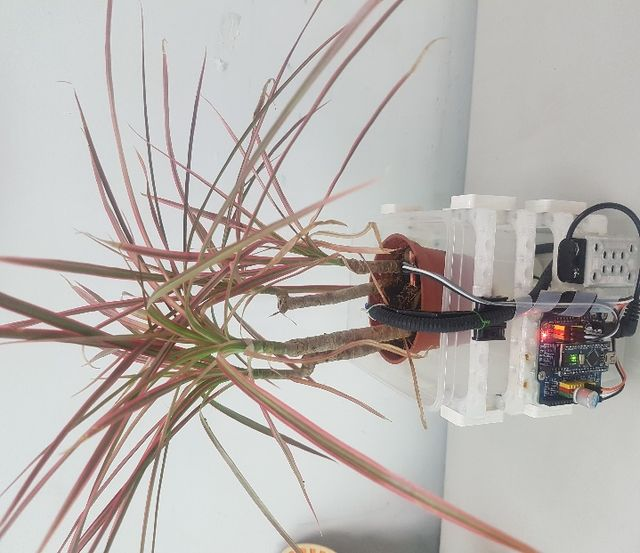
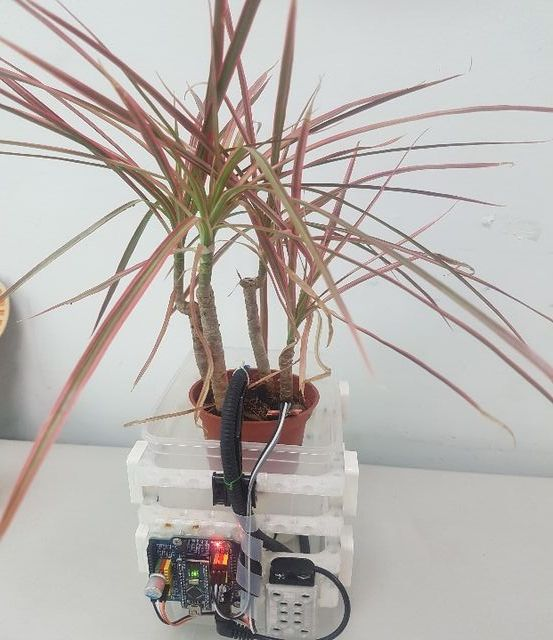
fix(explore): 科別名牌回到正確大樓、智能小車照片轉正、新增客服中鼎文
Building labels, the selection ring and the camera were measured before the
campus group's 90° turn was applied, so department labels floated over the
wrong buildings. Measuring with updateWorldMatrix(true,true) puts them back.
The robot-car photo is rotated upright. 客服中鼎文 rides a kick scooter round
the campus; tapping her shows the coin count, and a redemption pass once all
coins are collected.

Claude-Session: https://claude.ai/code/session_011EXM6cJxxxXFkLZeiVuEbH

diff --git a/explore/index.html b/explore/index.html
@@ -142,6 +142,19 @@ h1,h2,h3{font-family:var(--f-display);font-weight:400;text-wrap:balance;margin:0
 .bl .nm{background:var(--paper);border:2px solid var(--line);border-radius:12px;padding:3px 10px;font-family:var(--f-display);font-size:14px;white-space:nowrap;box-shadow:0 3px 0 rgba(110,70,60,.2);color:var(--ink)}
 .bl.sel .nm,.bl:hover .nm{background:var(--coin);border-color:var(--coin);color:#3d2c00}
 @keyframes bob{50%{transform:translateY(-5px)}}
+.npcTag{position:absolute;left:0;top:0;display:flex;flex-direction:column;align-items:center;border:0;background:none;padding:0;cursor:pointer;pointer-events:auto}
+.npcTag b{font-size:12px;background:#ff4f6d;color:#fff;padding:2px 10px;border-radius:999px;box-shadow:0 3px 0 #d9384f;font-family:var(--f-display);font-weight:400;animation:bob 1.6s ease-in-out infinite}
+.npcTag span{font-size:11px;font-weight:700;color:#3d3040;background:rgba(255,255,255,.9);border-radius:8px;padding:0 6px;margin-top:3px}
+#npc>.panel{width:min(620px,100%);position:relative}
+.npcCard{display:grid;grid-template-columns:minmax(0,220px) 1fr;gap:16px;padding:20px;align-items:center}
+.npcCard img{width:100%;height:auto;border-radius:18px;background:#f2ede6}
+.npcText{display:flex;flex-direction:column;gap:10px;align-items:flex-start;min-width:0}
+.npcText h2{font-size:28px}
+.npcText p{margin:0;font-size:15px;line-height:1.75}
+.npcProof{border:3px dashed var(--coin);border-radius:16px;padding:10px 14px;display:flex;flex-direction:column;gap:2px;background:#fff8dc;color:#5a4316}
+.npcProof span{font-size:11px;font-weight:700;letter-spacing:.1em}
+.npcProof b{font-family:var(--f-display);font-weight:400;font-size:20px}
+@media (max-width:760px){ .npcCard{grid-template-columns:120px 1fr;gap:12px;padding:16px} .npcText h2{font-size:22px} }
 .me{position:absolute;left:0;top:0;font-size:11px;font-weight:700;background:var(--brick);color:#fff;padding:2px 8px;border-radius:999px;pointer-events:none;white-space:nowrap}
 .bub{position:absolute;left:0;top:0;background:#fffdf6;color:#463a37;border-radius:14px;padding:5px 10px;font-size:12px;max-width:190px;line-height:1.4;box-shadow:0 3px 0 rgba(0,0,0,.12);pointer-events:none;animation:pop .3s ease}
 .bub b{display:block;font-size:10.5px;color:#a0857a}
@@ -342,6 +355,7 @@ figcaption{font-size:12px;color:var(--muted);line-height:1.45}
   <div id="game" class="ov" hidden role="dialog" aria-modal="true" aria-labelledby="gTitle"><div class="panel"><div class="ovHead"><span class="tag" id="gTag"></span><h2 id="gTitle"></h2><p id="gSub"></p><button class="x" data-close="game" aria-label="關閉">×</button></div><div class="ovBody" id="gBody"></div></div></div>
   <div id="pass" class="ov" hidden role="dialog" aria-modal="true" aria-labelledby="pTitle"><div class="panel"><div class="ovHead"><div class="passTop"><span id="pAva"></span><div><h2 id="pTitle">草商探索護照</h2><p id="pSub"></p></div></div><button class="x" data-close="pass" aria-label="關閉">×</button></div><div class="ovBody" id="pBody"></div></div></div>
   <div id="intro" class="ov" hidden role="dialog" aria-modal="true" aria-labelledby="inTitle"><div class="panel"><div class="ovHead" id="inHead"><span class="tag" id="inTag"></span><h2 id="inTitle"></h2><p id="inSub"></p><nav class="inNav" id="inNav" aria-label="章節"></nav><button class="x" data-close="intro" aria-label="關閉">×</button></div><div class="ovBody" id="inBody"></div></div></div>
+  <div id="npc" class="ov" hidden role="dialog" aria-modal="true" aria-labelledby="npcTitle"><div class="panel"><div class="npcCard"><img src="media/npc/zhongdingwen.jpg" alt="客服中鼎文的公仔：圓框眼鏡、綁馬尾、穿白色藍袖運動服" width="480" height="720"><div class="npcText"><span class="tag" style="background:#ff4f6d">客服</span><h2 id="npcTitle">中鼎文</h2><p id="npcMsg"></p><div id="npcProof" class="npcProof" hidden></div><p class="note">她騎著滑板車在校園裡繞，看到她就可以點她。小禮物請在學校現場找中鼎文兌換。</p><button class="btn main" data-close="npc">好，繼續探索</button></div></div><button class="x" data-close="npc" aria-label="關閉">×</button></div></div>
   <div id="lb" class="ov" hidden role="dialog" aria-modal="true" aria-label="放大圖片"><figure><img id="lbImg" alt=""><figcaption id="lbCap"></figcaption></figure><button class="x" data-close="lb" aria-label="關閉">×</button></div>
   <div id="info" class="ov" hidden role="dialog" aria-modal="true" aria-labelledby="iTitle"><div class="panel"><div class="ovHead"><h2 id="iTitle">玩法說明</h2><button class="x" data-close="info" aria-label="關閉">×</button></div><div class="ovBody" id="iBody"></div></div></div>
 
@@ -420,7 +434,7 @@ const DEPT_INTRO={
     courses:[['一年級',['數位科技概論','資訊科技概論','程式語言與設計','商業概論','會計學']],
              ['二年級',['多媒體製作與應用','數位科技應用','行動裝置應用設計','專題製作','網頁設計','軟體應用','邏輯設計']],
              ['三年級',['計算機應用','資料庫應用','電子商務','數位影像設計','商業溝通']]],
-    projects:{ topics:['手機 APP 程式','創客實作','AI 智能運用'], photos:[['proj-plant.jpg','智能植栽',640,573],['proj-car.jpg','智能小車製作',640,553]] },
+    projects:{ topics:['手機 APP 程式','創客實作','AI 智能運用'], photos:[['proj-plant.jpg','智能植栽',640,573],['proj-car.jpg','智能小車製作',553,640]] },
     certs:[['一年級',['勞動部 丙級會計事務－人工記帳']],
            ['二年級',['PVQC 資訊類專業英文詞彙','勞動部 丙級電腦軟體應用','MOCC APP 手機程式','GTC AI 人工智慧應用']],
            ['三年級',['電腦軟體應用乙級','電子商務','資訊科技']]],
@@ -731,7 +745,7 @@ function courtyard(key,quests){
   for(const [x,z] of [[-2.8,-1.5],[2.8,1.5],[0,-4],[-3,3.5]]) tree(root,x,z,1.15,C.tree2);
   for(const s of (c.pav||[])) pavilion(root,s*(c.W/2+1.4),c.D/2-.6,.9);
   const map={left:gl,right:gr,back:gb,gate:gg};
-  root.updateMatrixWorld(true);
+  root.updateWorldMatrix(true,true);
   for(const [slot,id] of Object.entries(quests)) reg(id,map[slot],c.face);
   PARTS[key]={root,gate:gg};
 }
@@ -740,7 +754,7 @@ function courtyard(key,quests){
    BUILDINGS
    ===================================================================== */
 const B={}; const pickables=[];
-function reg(id,g,face=1,dirW=null){ g.updateMatrixWorld(true); const bx=new THREE.Box3().setFromObject(g); const c=bx.getCenter(new THREE.Vector3()), sz=bx.getSize(new THREE.Vector3());
+function reg(id,g,face=1,dirW=null){ g.updateWorldMatrix(true,true); const bx=new THREE.Box3().setFromObject(g); const c=bx.getCenter(new THREE.Vector3()), sz=bx.getSize(new THREE.Vector3());
   B[id]={g,c,top:bx.max.y+.5,r:Math.max(4,Math.min(10,Math.hypot(sz.x,sz.z)*.45)),face,dir:dirW||(face===0?new THREE.Vector3(0,0,1):new THREE.Vector3(face>0?-1:1,0,0)),base:g.scale.clone()};
   g.traverse(o=>{ if(o.isMesh){ o.userData.q=id; pickables.push(o);} }); }
 function nameplate(p,text,x,y,z,ry,col){ return plane(p,Math.min(4.2,text.length*.5+.8),.55,signTex(text,col,'#ffffff',Math.max(320,text.length*80+60),120,66),x,y,z,ry); }
@@ -1092,6 +1106,11 @@ function makeStudent(o){
     const back=add(geo('hairBack',()=>new THREE.CapsuleGeometry(.2,.32,4,10)),o.hair,head,0,-.24,-.17); back.scale.set(1.65,1,.7);
     for(const s of [-1,1]){ const l=add(geo('hairSide',()=>new THREE.CapsuleGeometry(.075,.34,3,8)),o.hair,head,s*.31,-.22,.04); l.rotation.z=s*.08; }
     const bang=small('bang',()=>new THREE.SphereGeometry(.3,14,8),o.hair,head,0,.2,.17); bang.scale.set(1.15,.42,.72);
+  } else if(o.style==='pony'){
+    const tail=add(geo('ponyTail',()=>new THREE.CapsuleGeometry(.11,.3,4,10)),o.hair,head,.12,-.22,-.3); tail.rotation.set(.5,0,-.25);
+    add(geo('ponyTie',()=>new THREE.SphereGeometry(.07,8,6)),'#2f63d6',head,.06,0,-.33,false);
+    const bang=small('bang',()=>new THREE.SphereGeometry(.3,14,8),o.hair,head,0,.2,.17); bang.scale.set(1.15,.42,.72);
+    for(const s2 of [-1,1]){ const l=add(geo('ponySide',()=>new THREE.CapsuleGeometry(.06,.16,3,8)),o.hair,head,s2*.32,-.08,.06); }
   } else if(o.style==='spiky'){
     for(let i=0;i<7;i++){ const a=i/7*Math.PI*2; const sp=small('spike',()=>new THREE.ConeGeometry(.08,.22,6),o.hair,head,Math.cos(a)*.2,.33,Math.sin(a)*.2-.03); sp.rotation.set(Math.sin(a)*.6,0,-Math.cos(a)*.6); }
     const f=small('fringe',()=>new THREE.SphereGeometry(.28,12,8),o.hair,head,0,.2,.2); f.scale.set(1.15,.4,.6);
@@ -1148,6 +1167,45 @@ function updateWalkers(t,dt){
   if(player){ if(player.path.length){ const tgt=player.path[0]; if(stepWalker(player.mesh,tgt,player.speed*dt,t,0,dt)){ player.path.shift(); } } else { const u=player.mesh.userData; u.legs[0].rotation.x=u.legs[1].rotation.x=0; u.arms[0].rotation.set(0,0,0); u.arms[1].rotation.set(0,0,2.5+Math.sin(t*6)*.25); player.mesh.position.y=0; } }
 }
 
+/* ---------- NPC 中鼎文（客服）：騎滑板車繞校園，集滿金幣可以找她換小禮物 ---------- */
+const NPC_ROUTE=['gateS','e1','s6','e0','n6','n5','nF','n3','nE','nL','c0','sL','sC','s3','s4','s5','s6','e1'];
+let npc=null;
+function makeNPC(){
+  const g=new THREE.Group(); scene.add(g);
+  const sc=new THREE.Group(); g.add(sc); // kick scooter
+  box(sc,.32,.06,1.15,'#ff4f6d',0,.12,0); box(sc,.3,.02,1.0,'#2b2b2b',0,.18,0);
+  const wh=[]; for(const z of [-.5,.5]){ const w=add(geo('scWheel',()=>new THREE.CylinderGeometry(.11,.11,.08,14)),'#2b2b2b',sc,0,.11,z); w.rotation.z=Math.PI/2; wh.push(w); }
+  const stem=add(geo('scStem',()=>new THREE.CylinderGeometry(.035,.035,1.15,8)),'#cfd5da',sc,0,.68,.5); stem.rotation.x=-.12;
+  const bar=add(geo('scBar',()=>new THREE.CylinderGeometry(.03,.03,.6,8)),'#cfd5da',sc,0,1.24,.43); bar.rotation.z=Math.PI/2;
+  for(const x of [-.3,.3]) add(geo('scGrip',()=>new THREE.CylinderGeometry(.045,.045,.12,8)),'#ff4f6d',sc,x,1.24,.43).rotation.z=Math.PI/2;
+  const fig=makeStudent({style:'pony',hair:'#1b1714',skin:'#f6cfa6',glasses:'round',gcol:'#141414',bottom:'shorts',stripe:true,socks:true,shoe:'white'});
+  fig.position.set(0,.15,-.08); fig.scale.setScalar(.95); g.add(fig);
+  fig.children[0].visible=false; // no figurine base while riding
+  const u=fig.userData; u.arms.forEach(a=>a.rotation.set(-1.15,0,0)); u.legs[0].rotation.x=-.12;
+  g.traverse(o=>{ if(o.isMesh){ o.userData.npc=true; pickables.push(o); } });
+  const pts=NPC_ROUTE.map(k=>NV(k));
+  npc={g,fig,wh,pts,i:0,pos:pts[0].clone(),wait:0,speed:3.6};
+  document.getElementById('npc').addEventListener('click',e=>{ if(e.target.closest('[data-close="npc"]')||e.target.id==='npc') document.getElementById('npc').hidden=true; });
+  g.position.copy(npc.pos);
+}
+function updateNPC(t,dt){
+  if(!npc) return; const n=npc;
+  if(n.wait>0){ n.wait-=dt; n.fig.userData.arms[1].rotation.set(0,0,2.5+Math.sin(t*9)*.3); return; }
+  n.fig.userData.arms[1].rotation.set(-1.15,0,0);
+  const tgt=n.pts[(n.i+1)%n.pts.length]; const d=tgt.clone().sub(n.g.position); d.y=0; const L=d.length(), st=n.speed*dt;
+  if(L<st){ n.g.position.copy(tgt); n.i=(n.i+1)%n.pts.length; if(Math.random()<.22) n.wait=rnd(1.5,3); }
+  else { n.g.position.addScaledVector(d,st/L); const yaw=Math.atan2(d.x,d.z); n.g.rotation.y+=(((yaw-n.g.rotation.y+Math.PI*3)%(Math.PI*2))-Math.PI)*Math.min(1,dt*6); n.wh.forEach(w=>w.rotation.x+=st/.11); n.g.position.y=Math.abs(Math.sin(t*14))*.02; }
+}
+function openNPC(){
+  const all=ST.done.length>=Q.length, n=ST.done.length;
+  $('#npcMsg').innerHTML= all
+    ? `<b>你已經集滿 ${Q.length} 枚金幣！</b><br>把這個畫面給中鼎文看，就可以換小禮物囉。`
+    : `<b>加油，集滿金幣可以找中鼎文換小禮物！</b><br>你現在有 ${n} 枚，還差 <b>${Q.length-n}</b> 枚。`;
+  $('#npcProof').hidden=!all;
+  if(all) $('#npcProof').innerHTML=`<span>兌換憑證</span><b>${esc(ST.name||'草商新生')}</b><small>金幣 ${n} / ${Q.length} · ${new Date().toLocaleString('zh-TW',{timeZone:'Asia/Taipei',hour12:false})}</small>`;
+  $('#npc').hidden=false;
+}
+
 /* =====================================================================
    FX: coin pop, confetti, building bounce, selection ring
    ===================================================================== */
@@ -1164,11 +1222,12 @@ const selRing=new THREE.Mesh(new THREE.RingGeometry(1,1.18,40).rotateX(-Math.PI/
 /* =====================================================================
    LABELS, PICKING, CAMERA
    ===================================================================== */
-const labelEls={}; let meEl=null;
+const labelEls={}; let meEl=null, npcEl=null;
 function buildLabels(){
   for(const q of Q){ if(!B[q.id]) continue; const b=document.createElement('button'); b.className='bl'; b.type='button'; b.setAttribute('aria-label',q.name+'，點選探索');
     b.innerHTML=`<span class="mk">!</span><span class="nm">${q.bld?`<small>${q.bld}</small>`:''}${q.name}</span>`; b.addEventListener('click',()=>select(q.id,true)); labelsEl.appendChild(b); labelEls[q.id]=b; }
   meEl=document.createElement('div'); meEl.className='me'; meEl.style.visibility='hidden'; labelsEl.appendChild(meEl);
+  npcEl=document.createElement('button'); npcEl.type='button'; npcEl.className='npcTag'; npcEl.innerHTML='<b>客服</b><span>中鼎文</span>'; npcEl.setAttribute('aria-label','客服 中鼎文：集滿金幣可以換小禮物'); npcEl.addEventListener('click',openNPC); labelsEl.appendChild(npcEl);
   for(const t of TAGS){ if(!t.world){ const [x,z]=T2W(t.x,t.z); t.x=x; t.z=z; t.world=true; } const el=document.createElement('div'); el.className='bt'+(t.gate?' gate':'')+(t.land?' land':'')+(t.road?' road':''); el.textContent=t.name; labelsEl.appendChild(el); t.el=el; }
 }
 function refreshLabels(){ for(const id in labelEls){ const d=isDone(id); labelEls[id].classList.toggle('done',d); labelEls[id].querySelector('.mk').textContent=d?'✓':'!'; } if(meEl) meEl.textContent=ST.name?ST.name:'你'; }
@@ -1178,6 +1237,7 @@ function updateLabels(){
   for(const id in labelEls){ const el=labelEls[id], b=B[id]; const [x,y,z]=project(b.c.x,b.top+.4,b.c.z); if(z>1){ el.style.visibility='hidden'; continue; } el.style.visibility='visible'; el.style.transform=`translate(${x}px,${y}px) translate(-50%,-100%)`; el.style.zIndex=String(1000-Math.round(z*900)); }
   const camD=controls?camera.position.distanceTo(controls.target):100;
   for(const t of TAGS){ const [x,y,z]=project(t.x,t.y,t.z); const show=z<1&&(t.gate||t.land||t.road||camD<90); t.el.style.visibility=show?'visible':'hidden'; if(show) t.el.style.transform=`translate(${x}px,${y}px) translate(-50%,-100%)`; }
+  if(npc&&npcEl){ const p=npc.g.position; const [x,y,z]=project(p.x,p.y+2.35,p.z); npcEl.style.visibility=z>1?'hidden':'visible'; npcEl.style.transform=`translate(${x}px,${y}px) translate(-50%,-100%)`; npcEl.style.zIndex=String(1100-Math.round(z*900)); }
   if(player&&meEl){ const p=player.mesh.position; const [x,y,z]=project(p.x,p.y+2.1,p.z); meEl.style.visibility=z>1?'hidden':'visible'; meEl.style.transform=`translate(${x}px,${y}px) translate(-50%,-100%)`; }
   for(const s of students){ if(!s.bubble) continue; const p=s.mesh.position; const [x,y,z]=project(p.x,p.y+1.5,p.z); s.bubble.style.visibility=z>1?'hidden':'visible'; s.bubble.style.transform=`translate(${x}px,${y}px) translate(-50%,-100%)`; }
 }
@@ -1193,9 +1253,9 @@ const ray=new THREE.Raycaster(), ndc=new THREE.Vector2(); let downAt=null;
 function rayAt(cx,cy,objs){ const r=canvas.getBoundingClientRect(); ndc.set(((cx-r.left)/r.width)*2-1,-((cy-r.top)/r.height)*2+1); ray.setFromCamera(ndc,camera); return ray.intersectObjects(objs,false)[0]; }
 canvas.addEventListener('pointerdown',e=>{ downAt=[e.clientX,e.clientY]; });
 canvas.addEventListener('pointerup',e=>{ if(!downAt||!started) return; const moved=Math.hypot(e.clientX-downAt[0],e.clientY-downAt[1]); downAt=null; if(moved>6) return;
-  const hit=rayAt(e.clientX,e.clientY,pickables); if(hit){ select(hit.object.userData.q,true); return; }
+  const hit=rayAt(e.clientX,e.clientY,pickables); if(hit){ if(hit.object.userData.npc){ openNPC(); return; } select(hit.object.userData.q,true); return; }
   const gh=rayAt(e.clientX,e.clientY,WGROUND?[ground,WGROUND]:[ground]); if(gh&&player){ walkPlayerTo(nearestNode(gh.point.x,gh.point.z)); } });
-let hq=false, hoverId=null; canvas.addEventListener('pointermove',e=>{ if(e.pointerType!=='mouse'||hq) return; hq=true; requestAnimationFrame(()=>{ hq=false; const h=rayAt(e.clientX,e.clientY,pickables); const id=h?h.object.userData.q:null; if(id!==hoverId){ if(hoverId&&labelEls[hoverId]) labelEls[hoverId].classList.remove('hov'); hoverId=id; canvas.style.cursor=id?'pointer':'grab'; } }); });
+let hq=false, hoverId=null; canvas.addEventListener('pointermove',e=>{ if(e.pointerType!=='mouse'||hq) return; hq=true; requestAnimationFrame(()=>{ hq=false; const h=rayAt(e.clientX,e.clientY,pickables); const id=h?(h.object.userData.npc?'npc':h.object.userData.q):null; if(id!==hoverId){ if(hoverId&&labelEls[hoverId]) labelEls[hoverId].classList.remove('hov'); hoverId=id; canvas.style.cursor=id?'pointer':'grab'; } }); });
 
 /* =====================================================================
    UI
@@ -1323,7 +1383,7 @@ function winGame(id){
   const q=QI[id]; const fresh=!isDone(id);
   const line=q.kind==='dept'?'你認識了這個科別！':'你發現了校園生活！';
   $('#gBody').innerHTML=`<div class="win"><div class="bigcoin">${q.short}</div><h3>${line}</h3><p>${fresh?`<b>${esc(q.name)}</b> 的印章蓋上護照了，獲得金幣一枚。`:'這枚金幣之前已經收過囉，再挑戰其他建築吧！'}</p><div style="display:flex;gap:8px;flex-wrap:wrap;justify-content:center"><button class="btn main" id="collect">${fresh?'收下金幣':'好的'}</button></div></div>`;
-  $('#collect').onclick=()=>{ $('#game').hidden=true; if(fresh){ ST.done.push(id); save(); flyCoin(); coinPop(id); refreshLabels(); renderTasks(); renderCard(); const dn=DEPTS.filter(d=>isDone(d.id)).length; if(q.kind==='dept'&&dn===DEPTS.length) setTimeout(()=>{ toast(`${DEPTS.length} 個科別都認識了！打開護照領取探索證書`); openPass(); },1600); } };
+  $('#collect').onclick=()=>{ $('#game').hidden=true; if(fresh){ ST.done.push(id); save(); if(ST.done.length===Q.length) setTimeout(()=>{ toast('金幣集滿了！去找騎滑板車的客服中鼎文換小禮物'); },2600); flyCoin(); coinPop(id); refreshLabels(); renderTasks(); renderCard(); const dn=DEPTS.filter(d=>isDone(d.id)).length; if(q.kind==='dept'&&dn===DEPTS.length) setTimeout(()=>{ toast(`${DEPTS.length} 個科別都認識了！打開護照領取探索證書`); openPass(); },1600); } };
 }
 function openIntro(id){
   const q=QI[id], I=DEPT_INTRO[id]; if(!I) return;
@@ -1404,13 +1464,13 @@ $('#coinBtn').addEventListener('click',openPass); $('#passBtn').addEventListener
 $('#homeBtn').addEventListener('click',()=>{ select(null); home(); });
 $('#taskBtn').addEventListener('click',()=>{ $('#tasks').classList.toggle('open'); if($('#tasks').classList.contains('open')) select(null); });
 $('#infoBtn').addEventListener('click',()=>{
-  $('#iBody').innerHTML=`<p><b>怎麼玩</b></p><ul><li>直接點建築（或上面的名牌）就能看科別介紹，不用走到門口；你的角色會自己走過去。</li><li>每棟建築都有一個小任務，完成後會顯示「你認識了這個科別！」並得到一枚金幣。</li><li>在科別卡片按「♡ 我有興趣」，十個科別都認識後，護照會發給你一張寫著你方向的「探索證書」。</li><li>拖曳可以轉動視角，捏合或滾輪可以縮放，點地面可以讓角色走過去。</li></ul>
+  $('#iBody').innerHTML=`<p><b>怎麼玩</b></p><ul><li>直接點建築（或上面的名牌）就能看科別介紹，不用走到門口；你的角色會自己走過去。</li><li>每棟建築都有一個小任務，完成後會顯示「你認識了這個科別！」並得到一枚金幣。</li><li>在科別卡片按「♡ 我有興趣」，十個科別都認識後，護照會發給你一張寫著你方向的「探索證書」。</li><li>看到頭上寫「客服」、騎滑板車的中鼎文就點她。集滿 13 枚金幣，可以找她換小禮物。</li><li>拖曳可以轉動視角，捏合或滾輪可以縮放，點地面可以讓角色走過去。</li></ul>
   <p><b>校園廣播</b></p><p>底部的廣播與同學頭上的對話框來自課程 Discord（由 TA Bot 推送到 <code>api/feed</code>）。目前狀態：${feedMode==='live'?'即時':'示範內容'}。</p>
   <p><b>資料來源</b></p><ul>${SOURCES.map(s=>`<li><a href="${s[1]}" target="_blank" rel="noopener">${esc(s[0])}</a></li>`).join('')}</ul>
   <p class="note">校園配置依「115 學年度全校平面圖」；北邊是中投快速道路，西邊是民房，正校門正對面是萊爾富、右手邊是南台灣土魠魚羹。誠工樓、誠教樓、藝升樓、誠學樓依實景照片做成三合院造型；比例為遊戲用的示意。校外商店以一般店面呈現。進度只存在這台裝置的瀏覽器裡。</p>`;
   $('#info').hidden=false; });
 $('#info').addEventListener('click',e=>{ if(e.target.closest('[data-close="info"]')||e.target.id==='info') $('#info').hidden=true; });
-addEventListener('keydown',e=>{ if(e.key!=='Escape') return; for(const id of ['lb','intro','game','pass','info']){ if(!$('#'+id).hidden){ if(id==='game') gameStop&&gameStop(); $('#'+id).hidden=true; return; } } select(null); });
+addEventListener('keydown',e=>{ if(e.key!=='Escape') return; for(const id of ['lb','npc','intro','game','pass','info']){ if(!$('#'+id).hidden){ if(id==='game') gameStop&&gameStop(); $('#'+id).hidden=true; return; } } select(null); });
 function toast(text){ const t=$('#toast'); t.innerHTML='<span class="coin"></span><span></span>'; t.lastChild.textContent=text; t.hidden=false; clearTimeout(toast.t); toast.t=setTimeout(()=>t.hidden=true,3200); }
 
 /* =====================================================================
@@ -1449,7 +1509,7 @@ function frame(){
   const dt=Math.min(.05,clock.getDelta()); T+=dt*(reduceMotion?.4:1);
   for(const f of anim) f(T,dt);
   for(let i=fx.length-1;i>=0;i--) if(!fx[i](dt)) fx.splice(i,1);
-  updateWalkers(T,dt);
+  updateWalkers(T,dt); updateNPC(T,dt);
   if(selRing.visible) selRing.material.opacity=.55+.4*Math.sin(T*4);
   if(fly){ fly.k+=dt/fly.dur; const k=Math.min(1,fly.k); const e=k<.5?4*k*k*k:1-Math.pow(-2*k+2,3)/2; camera.position.lerpVectors(fly.p0,fly.p1,e); controls.target.lerpVectors(fly.t0,fly.t1,e); if(k>=1) fly=null; }
   controls&&controls.update();
@@ -1457,7 +1517,7 @@ function frame(){
 }
 try{ await Promise.race([document.fonts.load('48px Huninn'),new Promise(r=>setTimeout(r,1500))]); }catch(e){}
 buildCampus(); buildLabels(); refreshLabels(); renderTasks(); renderAvatars();
-for(const h of HOMES) addStudent(h); for(let i=0;i<4;i++) addStudent(pick(Object.keys(N).filter(k=>!(k in WNODE))));
+makeNPC(); for(const h of HOMES) addStudent(h); for(let i=0;i<4;i++) addStudent(pick(Object.keys(N).filter(k=>!(k in WNODE))));
 startDemo(); poll();
 if(renderer){ new ResizeObserver(resize).observe(canvas); resize(); if(canvas.clientWidth<760) camera.position.set(-10,190,205); if(controls){ controls.autoRotate=!reduceMotion; controls.autoRotateSpeed=.5; } requestAnimationFrame(frame); }
 </script>

diff --git a/explore/README.md b/explore/README.md
@@ -7,6 +7,7 @@
 - 校園配置依「115 學年度全校平面圖」（約 10 像素 = 1 單位，寫在 `PLAN`）：上排誠工樓、誠教樓、誠治樓與宿舍，中軸為中央大道、誠愛樓（圖書館）、中央草坪與水池，下排藝升樓、誠學樓，西側潔采樓、球場與運動場；平面圖上正校門在右下角，轉成實際方位後在西南角。
 - 誠工樓、誠教樓、藝升樓、誠學樓做成三合院：兩翼山牆屋頂與白色封簷、洗石子框架配粉紅磚、綠欄杆迴廊、菱形窗、後棟，正面是兩層門廊與青綠色樓名牌。
 - 資料處理科卡片與「看資處科完整介紹」內容取自科內簡報（2026-3-10）：三年專業課程、專題實作、各年級技能檢定、科設備、校外參訪、10 項競賽獲獎海報、升學 98%／國立科大 50% 與就業方向。照片壓縮後放在 `media/data/`，資料寫在 `DEPT_INTRO`；其他科有簡報時照同格式加入即可。
+- NPC 客服中鼎文（`media/npc/zhongdingwen.jpg`）騎滑板車沿 `NPC_ROUTE` 繞校園，頭上標「客服」。點她會跳出公告與目前金幣數；集滿 13 枚時顯示兌換憑證（名字、金幣、時間），小禮物在學校現場兌換，網站不做線上發獎。
 - 13 個探索點（9 個科別＋誠愛樓、921 重建紀念亭、正校門正對面的萊爾富、校門右手邊的南台灣土魠魚羹），各有一個一分鐘內完成的小任務，完成顯示「你認識了這個科別！」並得到一枚金幣。
 - 正校門：伸縮門、警衛室在門內右側，「國立草屯商工」校名牆與賀榜在門口右側；進門右手邊是「師道」書法碑文牆與橢圓荷花池，旁邊是校長宿舍；誠愛樓（圖書館）前有藍色棚頂的司令台。
 - 方位依 Google 地圖校正：平面圖整體順時針轉 90°（程式裡 `CAMP` 群組，平面圖座標 (x,z) → 世界 (−z,x)）。校園南北向，運動場在西北、潔采樓在東北、中央草坪南北向，正校門在西南角。
